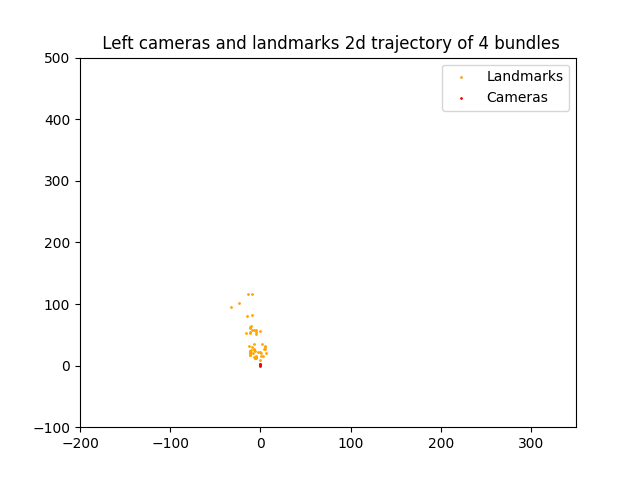
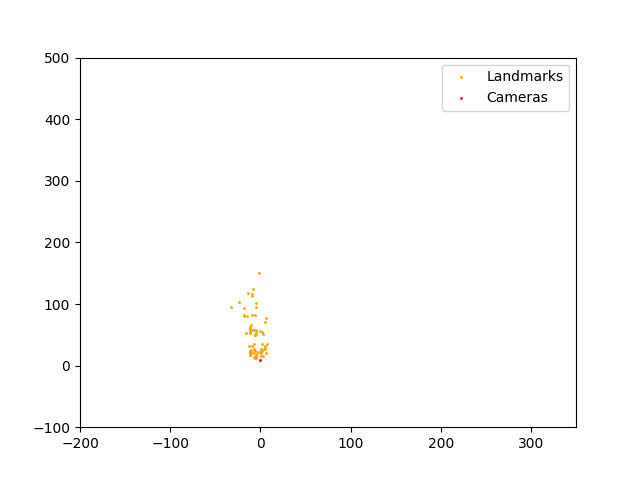
pushing graphs

Changed region(s): [[0.1562, 0.0625, 0.875, 0.125], [0.375, 0.625, 0.4062, 0.6562]]

diff --git a/ex5.py b/ex5.py
@@ -314,30 +314,28 @@ def bundle_adjustment(db):
 def main():
     db = ex4.build_data()
     # 5.1
-    # track = utilities.get_track_in_len(db, 20, False)
-    # triangulate_from_last_frame_and_project_to_all_frames(db, track)
-    # # 5.2
-    # keyframe1, keyframe2 = 12, 14
-    # graph, initial_estimate, bundle_data = adjust_bundle(db, keyframe1, keyframe2)
-    # factor_error_before_optimization = np.log(graph.error(initial_estimate))  # log-likelihood
-    # # ----3D Trajectory----:
-    # plot_trajectory(fignum=0, values=initial_estimate)
-    # # set_axes_equal(0)
-    # plt.savefig(fr"plots/ex5/Trajectory3D/Trajectory3D({keyframe1, keyframe2}).png")
-    # factor_error_after_optimization = np.log(graph.error(bundle_data.optimized_values))  # log-likelihood
-    # # ----2D Trajectory----:
-    # exs_plots.plot_left_cam_2d_trajectory(bundle_data )
-    # accum_scene(bundle_data.optimized_values, plot=True)
-    # plt.savefig(fr"plots/ex5/Trajectory2D/Trajectory2D({keyframe1, keyframe2}).png")
-    # # ----Factor Error Diffs:----:
-    # utilities.present_factor_error_differences(factor_error_after_optimization, factor_error_before_optimization)
+    track = utilities.get_track_in_len(db, 20, False)
+    triangulate_from_last_frame_and_project_to_all_frames(db, track)
+    # 5.2
+    keyframe1, keyframe2 = 0, 10
+    graph, initial_estimate, bundle_data = adjust_bundle(db, keyframe1, keyframe2)
+    factor_error_before_optimization = np.log(graph.error(initial_estimate))  # log-likelihood
+    # ----3D Trajectory----:
+    plot_trajectory(fignum=0, values=initial_estimate)
+    # set_axes_equal(0)
+    plt.savefig(fr"plots/ex5/Trajectory3D/Trajectory3D({keyframe1, keyframe2}).png")
+    factor_error_after_optimization = np.log(graph.error(bundle_data.optimized_values))  # log-likelihood
+    # ----2D Trajectory----:
+    exs_plots.plot_left_cam_2d_trajectory(bundle_data)
+    accum_scene(bundle_data.optimized_values, plot=True)
+    plt.savefig(fr"plots/ex5/Trajectory2D/Trajectory2D({keyframe1, keyframe2}).png")
+    # ----Factor Error Diffs:----:
+    utilities.present_factor_error_differences(factor_error_after_optimization, factor_error_before_optimization)
 
     # 5.3
-    # bundle_adjustment(db, keyframes=[(i, i + 5) if i + 5 <= 3449 else (i, i + 3449) for i in range(0, 3449, 5) if
-    #                                  i + 5 <= 3449])
-
-    bundle_adjustment(db)
+    # bundle_adjustment(db)
     # adjust_bundle(db, 150, 155)
+
     print("Finished successfully")
 
 

diff --git a/exs_plots.py b/exs_plots.py
@@ -366,8 +366,6 @@ def present_reprojection_error(db, track):
 # -----------------------------------------------------5----------------------------------------------------------------
 
 # 5.1
-
-
 def present_gtsam_re_projection_track_error(total_proj_dist, track):
     fig, ax = plt.subplots(figsize=(10, 7))
 
@@ -423,7 +421,9 @@ def plot_left_cam_2d_trajectory(bundle_data, title=""):
     fig = plt.figure()
     ax = fig.add_subplot()
 
-    cameras = bundle_data.get_optimized_cameras_p3d()
+    cameras = [bundle_data.get_optimized_cameras_p3d()]
+    cameras = utilities.gtsam_left_cameras_trajectory(cameras)
+    # cameras = utilities.gtsam_left_cameras_relative_trans(cameras)
     landmarks = bundle_data.get_optimized_landmarks_p3d()
 
     # ax.set_title(f"{title} Left cameras and landmarks 2d trajectory of {len(cameras)} bundles")
